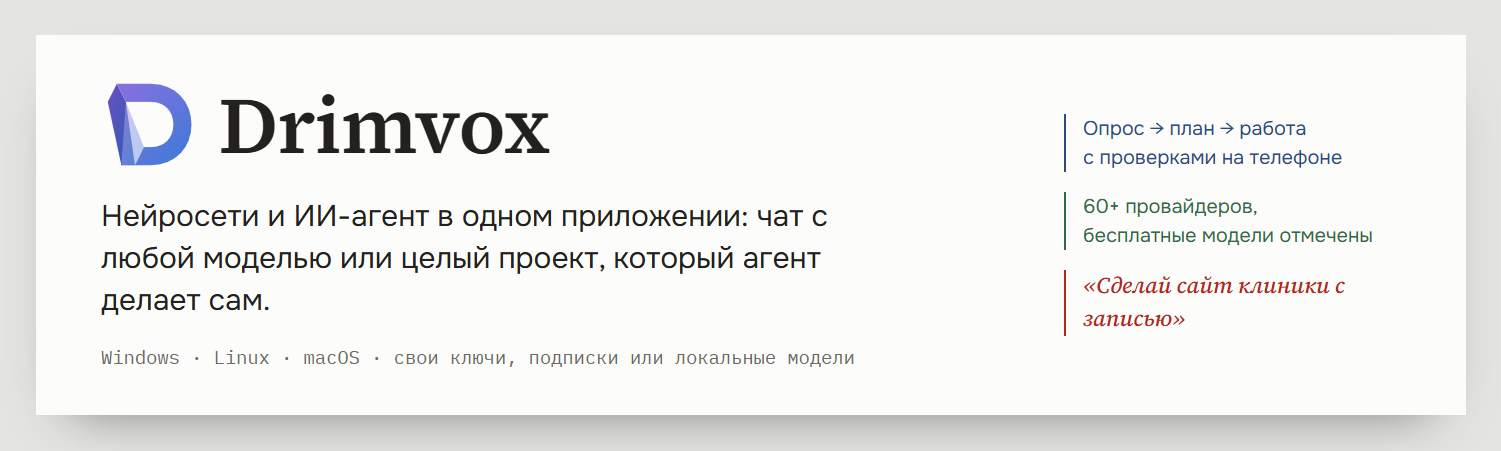
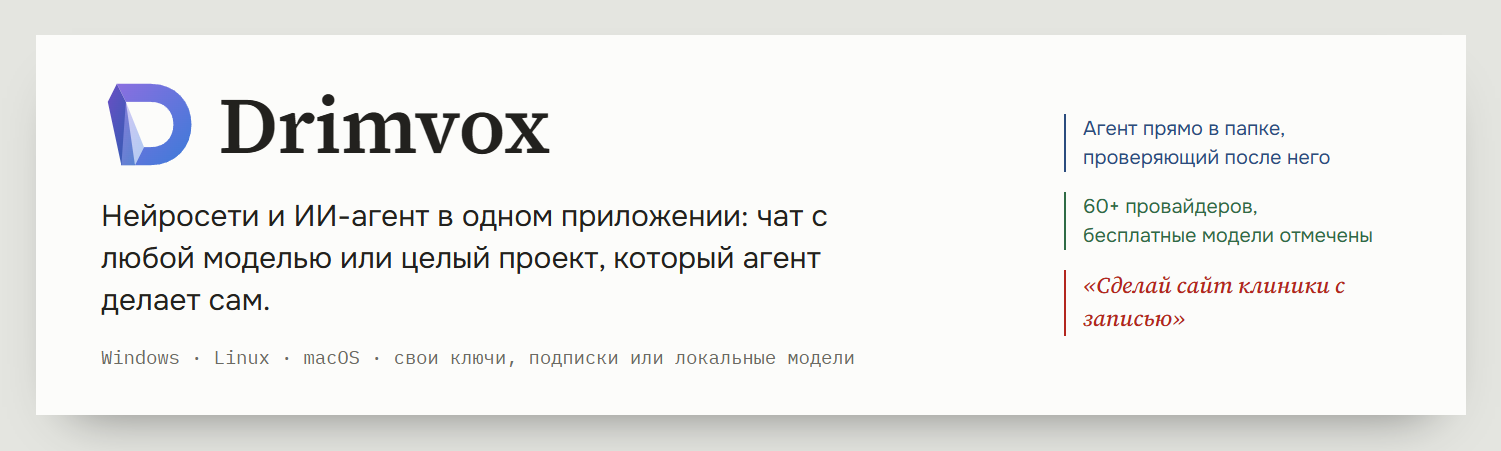
Rewrite the README for the current app, retake its screenshots and show the release date instead of downloads

Changed region(s): [[0.7049, 0.2483, 0.8887, 0.3104], [0.7049, 0.3415, 0.8887, 0.3725]]

diff --git a/apps/desktop/shots/readme.shots.ts b/apps/desktop/shots/readme.shots.ts
@@ -84,7 +84,7 @@ async function banner(page: Page, name: string, dark: boolean) {
               <div style="font-family:'IBM Plex Mono',monospace;font-size:15px;color:${t.muted}">Windows · Linux · macOS · свои ключи, подписки или локальные модели</div>
             </div>
             <div style="width:270px;display:flex;flex-direction:column;justify-content:center;gap:16px;font-family:Onest,sans-serif;font-size:16px;line-height:1.45">
-              <div style="border-left:2px solid ${t.ink};padding-left:14px;color:${t.ink}">Опрос → план → работа<br>с проверками на телефоне</div>
+              <div style="border-left:2px solid ${t.ink};padding-left:14px;color:${t.ink}">Агент прямо в папке,<br>проверяющий после него</div>
               <div style="border-left:2px solid ${t.ok};padding-left:14px;color:${t.ok}">60+ провайдеров,<br>бесплатные модели отмечены</div>
               <div style="border-left:2px solid ${t.pencil};padding-left:14px;color:${t.pencil};font-family:'Source Serif 4',serif;font-style:italic;font-size:18px">«Сделай сайт клиники с записью»</div>
             </div>
@@ -208,50 +208,10 @@ test("README screenshots", async () => {
   await shot(page, "skills");
   await page.getByRole("button", { name: "Назад" }).click();
 
-  // A project from scratch: the interview with choices, the plan, the work.
+  // A project: one conversation, as in Claude Code — the agent writes, keeps its checklist and answers.
   folder = project;
   await app.evaluate((_e, dir) => (process.env.DRIMVOX_TEST_PICK_FOLDER = dir), folder);
   queue.push(
-    call("ask_questions", {
-      understood: "Нужен сайт стоматологической клиники «Улыбка» с онлайн-записью к врачу. Пациенты чаще заходят с телефона.",
-      unknown: ["Нужна ли оплата на сайте", "Сколько врачей и услуг"],
-      questions: [
-        {
-          id: "booking",
-          question: "Как пациент записывается?",
-          options: [
-            { label: "Выбор врача и времени", description: "Свободные окна из расписания, подтверждение по SMS" },
-            { label: "Заявка с обратным звонком", description: "Администратор перезванивает и записывает сам" },
-          ],
-          recommended: 0,
-        },
-        {
-          id: "style",
-          question: "Какой стиль сайта?",
-          options: [
-            { label: "Светлый и спокойный", description: "Много воздуха, мягкие цвета, фото врачей" },
-            { label: "Строгий медицинский", description: "Белый, синий, акцент на лицензиях" },
-            { label: "Тёплый семейный", description: "Детский уголок, тёплые цвета" },
-          ],
-          recommended: 0,
-        },
-      ],
-    }),
-    call("ask_questions", { questions: [], understood: "Сайт клиники с записью к врачу и подтверждением по SMS, светлый стиль.", unknown: [] }),
-    call("write_plan", {
-      summary: "Сайт стоматологии «Улыбка»: услуги и цены, врачи, отзывы и онлайн-запись с выбором врача и времени. Запись подтверждается кодом из SMS; администратор видит записи в простой панели.",
-      steps: ["Каркас сайта и общий стиль", "Главная: услуги, врачи, отзывы", "Онлайн-запись: врач, день, время", "Подтверждение по SMS", "Панель администратора", "Проверить на телефоне и компьютере"],
-      checks: ["npm run build", "npm test"],
-      screens: [
-        { name: "Главная", contents: "Первый экран с кнопкой «Записаться», услуги с ценами, врачи, отзывы, адрес и карта" },
-        { name: "Запись", contents: "Выбор врача, дня и времени из свободных окон; имя и телефон; код из SMS" },
-        { name: "Панель администратора", contents: "Записи на сегодня и неделю, отмена и перенос" },
-      ],
-      decisions: [
-        { what: "Next.js и SQLite", why: "Один небольшой сервер без отдельной базы данных: дёшево держать и просто переносить" },
-        { what: "SMS через SMS.ru", why: "Российский сервис с понятными ценами; ключ хранится в .env" },
-      ],
-    }),
     { ...call("write_file", { path: "index.html", content: PAGE }), delayMs: 600 },
     call("update_checklist", {
       items: [
@@ -263,30 +223,18 @@ test("README screenshots", async () => {
         { text: "Проверить на телефоне и компьютере", done: true },
       ],
     }),
-    call("finish_work", { report: "Сайт готов: запись к врачу с подтверждением по SMS, панель администратора. Запуск: npm run dev, адрес http://localhost:3000." }),
-    { text: "Сайт готов: запись к врачу с подтверждением по SMS, панель администратора. Запуск: npm run dev." },
+    call("update_notes", { notes: "Сайт клиники «Улыбка»: index.html. Запуск: npm run dev, http://localhost:3000." }),
+    { text: "Сайт готов: запись к врачу с подтверждением по SMS, панель администратора. Запуск: npm run dev, адрес http://localhost:3000." },
+    // The tester: it starts the site as a patient would and finds nothing; then the agent says it is checked.
+    call("report_check", { problems: [], summary: "Открыл сайт на компьютере и телефоне, записался к врачу: всё работает." }),
+    { text: "Проверено: запись работает на компьютере и телефоне." },
   );
   await page.getByRole("button", { name: "Проекты", exact: true }).click();
   await addProject(page);
-  // The last model of the chat is picked already; the project gets a stronger one, and asks for the interview and the plan.
-  await page.locator(".composer").getByRole("button", { name: /DeepSeek V4 Flash/ }).click();
-  await page.getByRole("option", { name: /Claude Sonnet 5.5/ }).click();
-  await page.locator(".composer").getByRole("button", { name: /^Параметры/ }).click();
-  const options = page.getByRole("dialog", { name: "Параметры" });
-  await options.getByText(/^Сначала пара вопросов/).click();
-  await options.getByText(/^План на утверждение/).click();
-  await page.keyboard.press("Escape");
   await page.getByPlaceholder("Вопрос или задача по проекту").fill("Сайт стоматологической клиники «Улыбка» с онлайн-записью к врачу");
   await page.getByPlaceholder("Вопрос или задача по проекту").press("Enter");
-  await expect(page.getByText("Как пациент записывается?")).toBeVisible({ timeout: 30_000 });
-  await shot(page, "project-interview");
-  for (const option of ["Выбор врача и времени", "Светлый и спокойный"]) await page.getByText(option, { exact: true }).click();
-  await page.getByRole("button", { name: "Ответить" }).click();
-  const plan = page.getByRole("region", { name: "Итоговый план" });
-  await expect(plan).toContainText("стоматологии «Улыбка»", { timeout: 30_000 });
-  await shot(page, "project-plan");
-  await plan.getByRole("button", { name: "Начать работу" }).click();
-  await expect(page.locator(".topbar").getByRole("status")).toContainText("Готово", { timeout: 60_000 });
+  await expect(page.getByText(/^Сайт готов: запись к врачу/)).toBeVisible({ timeout: 60_000 });
+  await page.waitForTimeout(3000);
   await shot(page, "project-work");
 
   // The same in the dark theme.
